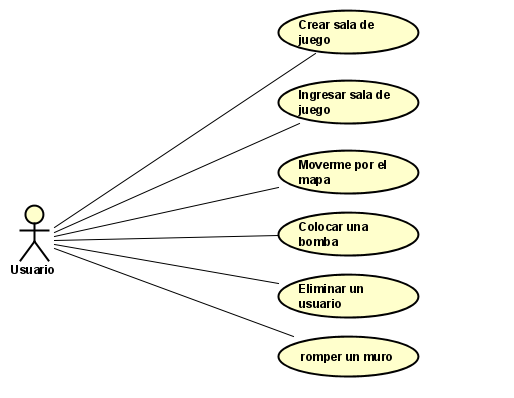
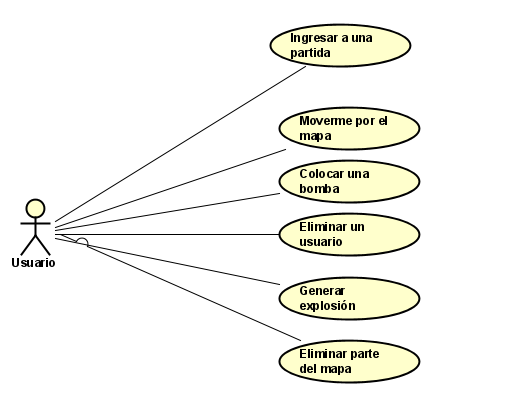
update

diff --git a/src/main/java/edu/escuelaing/arsw/bomberBattle/controller/controllerBomber.java b/src/main/java/edu/escuelaing/arsw/bomberBattle/controller/controllerBomber.java
@@ -1,8 +1,11 @@
 package edu.escuelaing.arsw.bomberBattle.controller;
 
 
+import org.springframework.stereotype.Controller;
 import org.springframework.web.bind.annotation.PostMapping;
 import org.springframework.web.bind.annotation.RequestBody;
+import org.springframework.web.bind.annotation.RequestMapping;
+import org.springframework.web.bind.annotation.ResponseBody;
 import org.springframework.web.bind.annotation.RestController;
 
 
@@ -15,21 +18,8 @@ import org.springframework.web.bind.annotation.RestController;
  *
  */
 
-@RestController
+@Controller
 public class controllerBomber {
-	int cont = 0;
-	
-	@PostMapping("/players")
-	public String processPoints(@RequestBody String player){
-		System.out.println(player);
-		cont+=1;
-		return player;
-	}
-
-	/**@PostMapping("/cantPoints")
-	public String getPositions(){
-		return gameRoom.getPlayers();
-	}*/
 	
 	
 }

diff --git a/src/test/java/edu/escuelaing/arsw/bomberBattle/BomberBattleApplicationTests.java b/src/test/java/edu/escuelaing/arsw/bomberBattle/BomberBattleApplicationTests.java
@@ -1,9 +1,8 @@
 package edu.escuelaing.arsw.bomberBattle;
 
-import org.junit.jupiter.api.Test;
-import org.springframework.boot.test.context.SpringBootTest;
+import org.junit.Test;
 
-@SpringBootTest
 class BomberBattleApplicationTests {
+	
 
 }

diff --git a/README.md b/README.md
@@ -12,40 +12,22 @@ BomberBattle está basado en el juego arcade Bomberman.
 ![Diseño Bomberman](Design/Bomberman.png "Bomberman")<br>
 
 - Usuario: Cada jugador debe ingresar un nombre de usuario.
-- Sala de juego: Cada usuario puede entrar a una sala de juego o crear su propia sala de juego a cada sala de 
-  juego puede ingresar un máximo de ocho usuarios.
-- Partida: Una vez empiece la partida los jugadores empezarán a eliminarse hasta que quede un usuario, a medida
-  que avance el tiempo aparecerán en el mapa diversos poderes, una vez se vayan
-  eliminando jugadores para agilizar la partida aparecerán bombas que eliminarán parte del mapa.
-- Poderes: El juego contará diversos poderes que darán una ventaja al jugador.
-
-
+- Partida: Una vez empiece la partida los jugadores empezarán a eliminarse hasta que quede un usuario.
+- Bomba: Un jugador puede colocar una bomba cada 3 segundos y el tamaño de la bomba irá aumentando progesivamente con el 
+  paso de la partida.
+ -Mapa: El mapa irá generando bombas para ir reduciendo su tamaño y agilizar la partida.
 
 ## Historias de usuario :runner:
 
 ![Diseño userCase](Design/usercase.PNG "userCase")<br>
 
+### Ingresar a una partida
 
-### Crear sala de juego
-
-Como Usuario
-Quiero Crear una sala de juego
-Para que jugadores se unan a la partida.
-
+Como usuario
+Quiero ingresar a una partida
+Para poder empezar el juego
 criterios de aceptación
-- No puede haber dos salas de juego con el mismo nombre.
-- Cada sala debe tener como máximo 8 jugadores.
-- Un usuario no puede estar en dos salas de juego al tiempo.
-
-### Ingresar sala de juego
-
-Como Usuario
-Quiero ingresar a salas de juego
-Para entrar a jugar una partida.
-criterios de aceptación
-Se deben ingresar si:
-- La sala no está completa.
-- La sala  no está en partida.
+El usuario ingresará a una partida cuando se completen 4 usuarios esperando .
 
 ### Moverse por el mapa
 
@@ -59,11 +41,11 @@ El usuario debe poder moverse dentro del mapa.
 ### Colocar una bomba
 
 Como Usuario
-Quierocolocar una bomba
-Para poder eliminar los demás usuarios.
+Quiero colocar una bomba
+Para poder generar una explosión.
 criterios de aceptación
-Se debe colocar una bomba cada 5 segundos y en zonas libres del mapa.
-La bomba debe explotar según un tamaño y después de 3 segundos.
+Se debe colocar una bomba cada 3 segundos y en zonas libres del mapa.
+La bomba debe explotar según un tamaño.
 
 ### Eliminar usuario
 
@@ -73,10 +55,20 @@ Para poder ganar la partida.
 criterios de aceptación
 El usuario debe quedar eliminado si el rango de una bomba lo alcanza.
 
+### Generar explosión
 
-### romper muro
 Como Usuario
-Quiero romper un muro
-Paravpoder acceder a otras partes del mapa.
+Quiero que se genere una explosión
+Para poder eliminar los demás usuarios.
 criterios de aceptación
-El muro se rompe solamente con alguna bomba.
+el tamaño de la explosión irá aumentando con el paso del tiempo.
+Si la explosión alcanza un jugador será eliminado.
+
+### Eliminar parte del mapa
+
+Como Usuario
+Quiero que se elimine parte del mapa
+Para poder agilizar la partida
+criterios de aceptación
+En el mapa aparederán bombas que cortaran parte del mapa para reducir 
+el tamaño y agilizar la partida.
